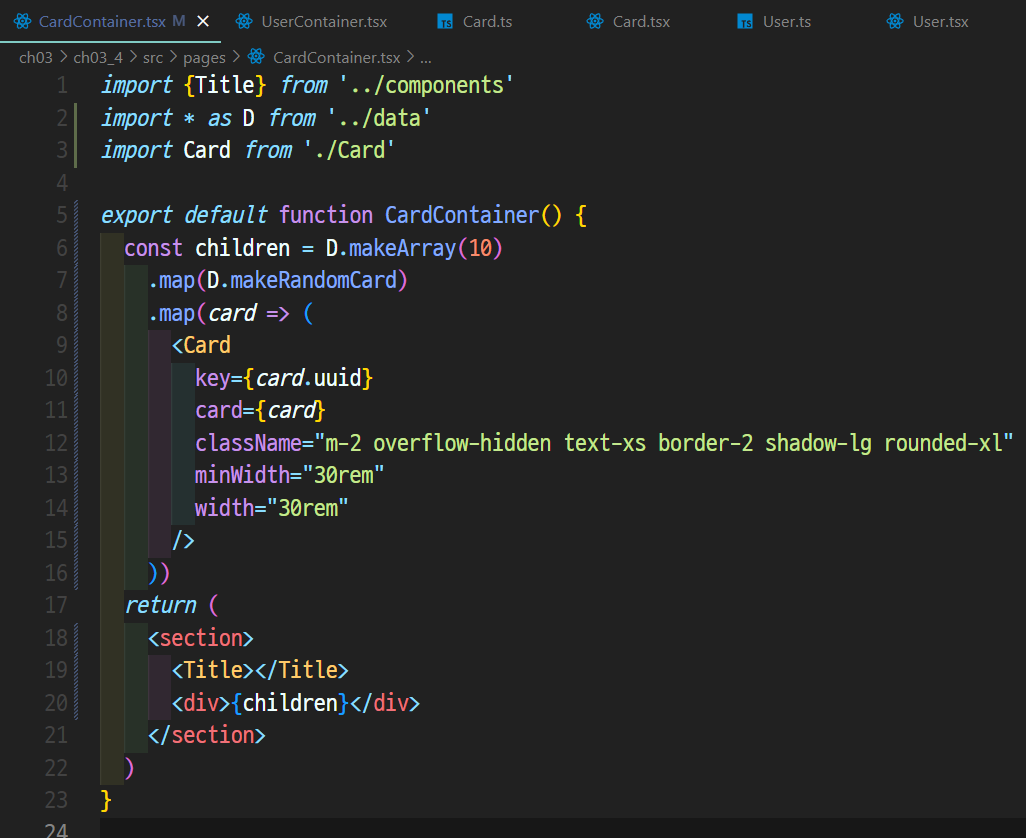
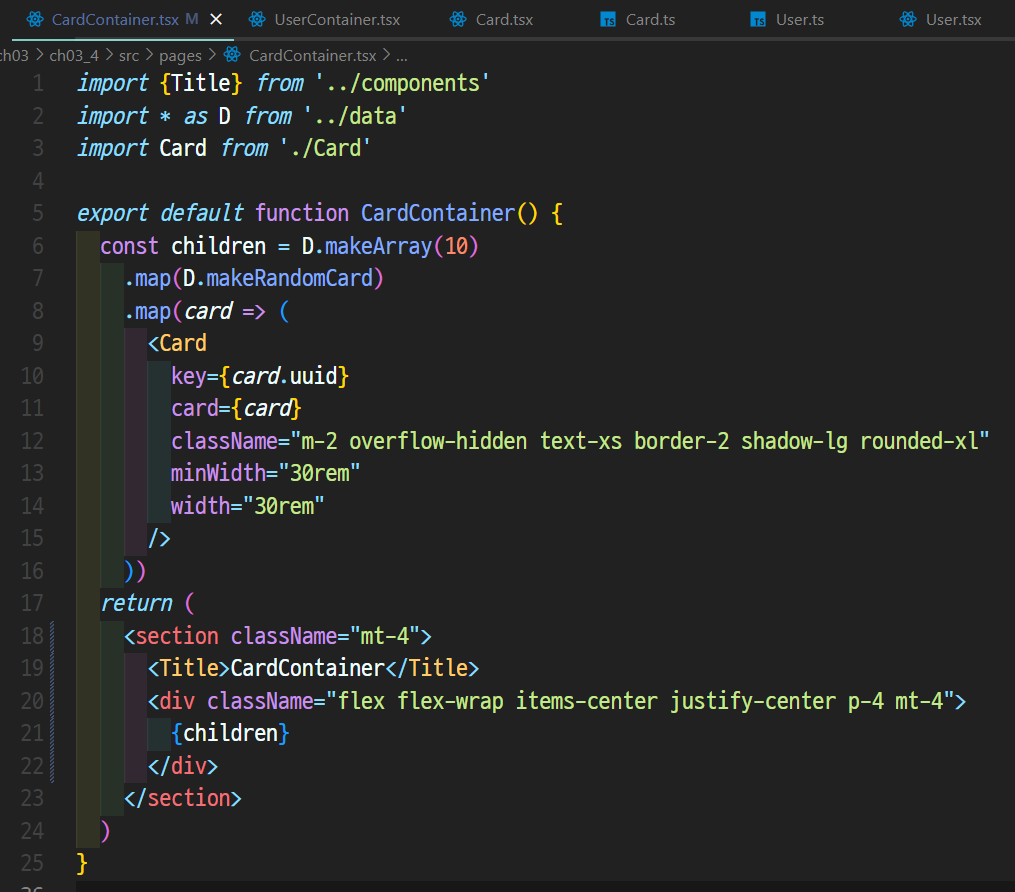
unfinished12 03.컴포넌트 CSS 스타일링_03-4.플렉스 레이아웃 이해하기

diff --git a/ch03/ch03_4/src/pages/Card.tsx b/ch03/ch03_4/src/pages/Card.tsx
@@ -1,6 +1,6 @@
 import type {FC} from 'react'
 import type {DivProps} from '../components'
-import {Div} from '../components'
+import {Div, Icon} from '../components'
 import * as D from '../data'
 import User from './User'
 
@@ -8,10 +8,12 @@ export type CardProps = DivProps & {
   card: D.ICard
 }
 const Card: FC<CardProps> = ({card, ...props}) => {
+  console.log(card)
   const {writer, image, title, paragraphs, dayMonthYearDate, relativeDate} = card
   return (
     <Div {...props}>
       <div>
+        <Div src={image} className="h-60" />
         <User user={writer} className="mt-2" />
       </div>
     </Div>

diff --git a/ch03/ch03_4/src/pages/CardContainer.tsx b/ch03/ch03_4/src/pages/CardContainer.tsx
@@ -15,9 +15,11 @@ export default function CardContainer() {
       />
     ))
   return (
-    <section>
-      <Title></Title>
-      <div>{children}</div>
+    <section className="mt-4">
+      <Title>CardContainer</Title>
+      <div className="flex flex-wrap items-center justify-center p-4 mt-4">
+        {children}
+      </div>
     </section>
   )
 }
